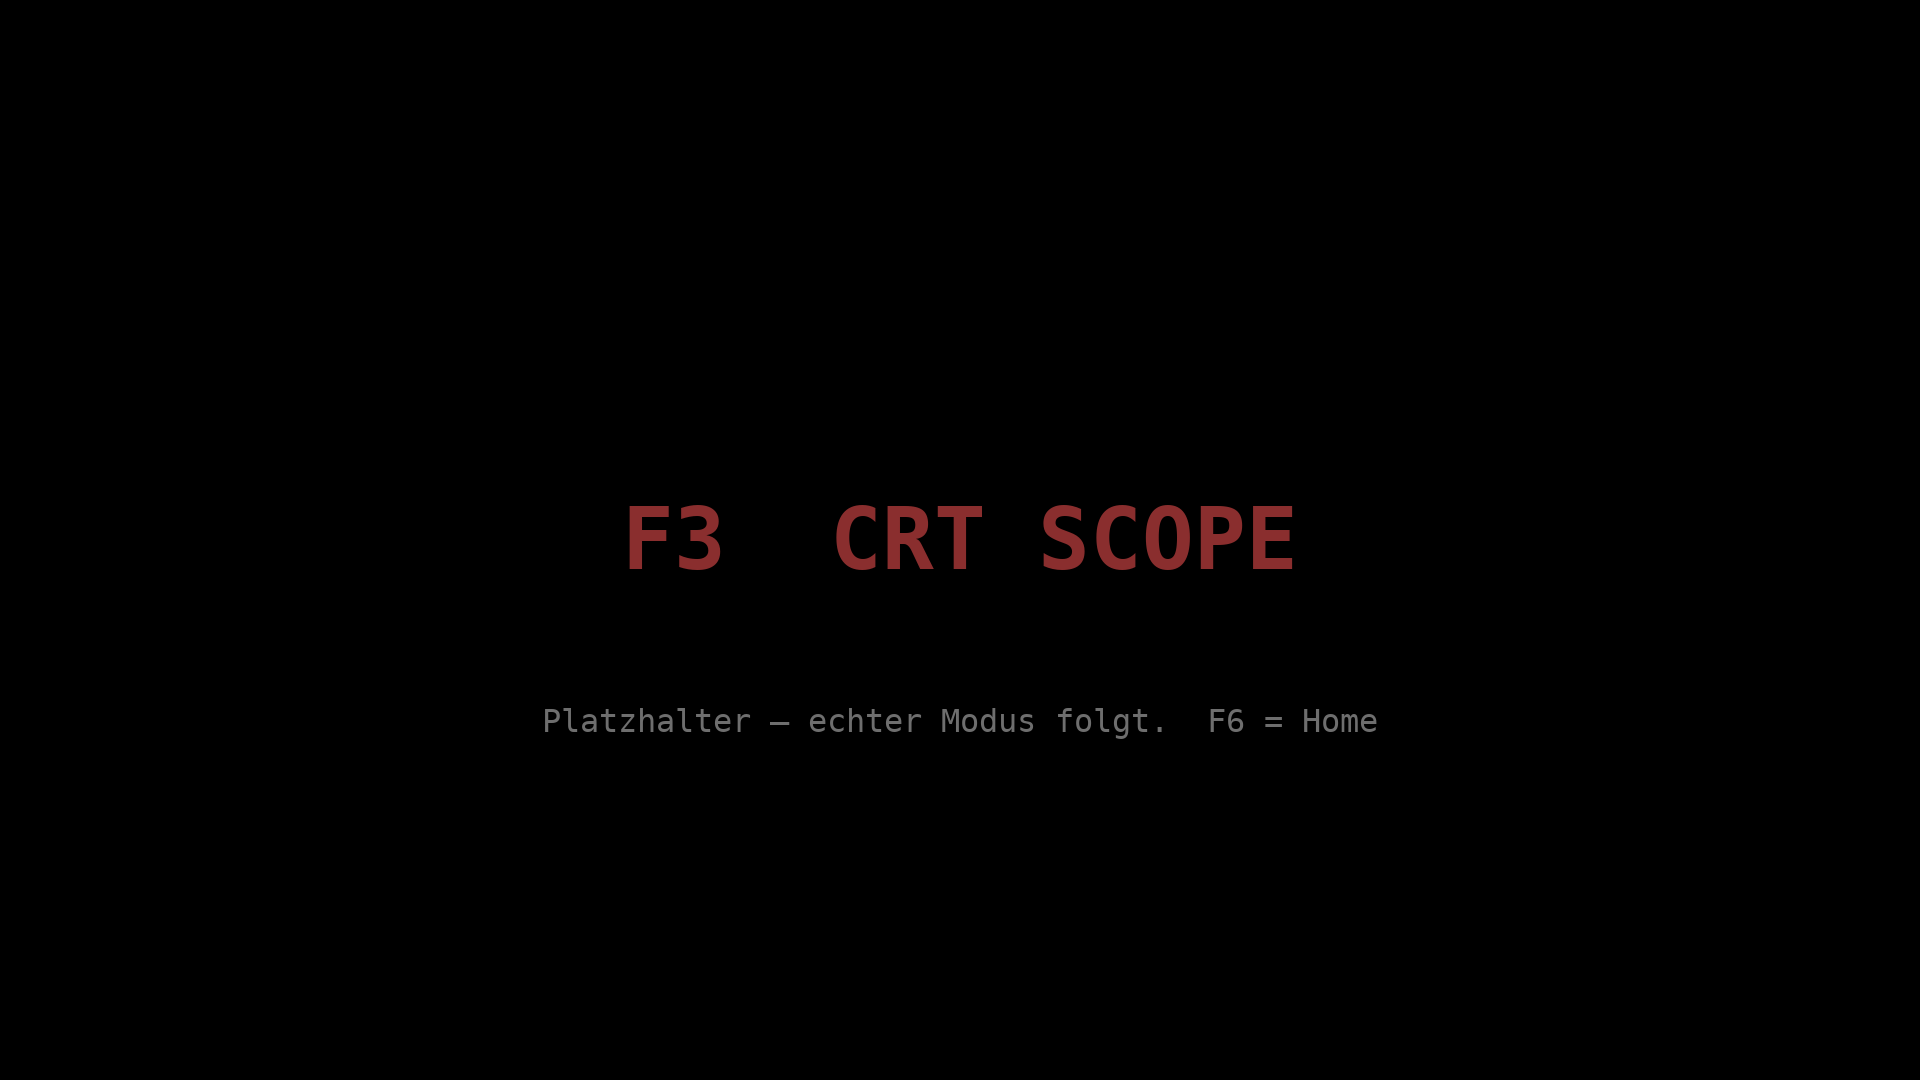
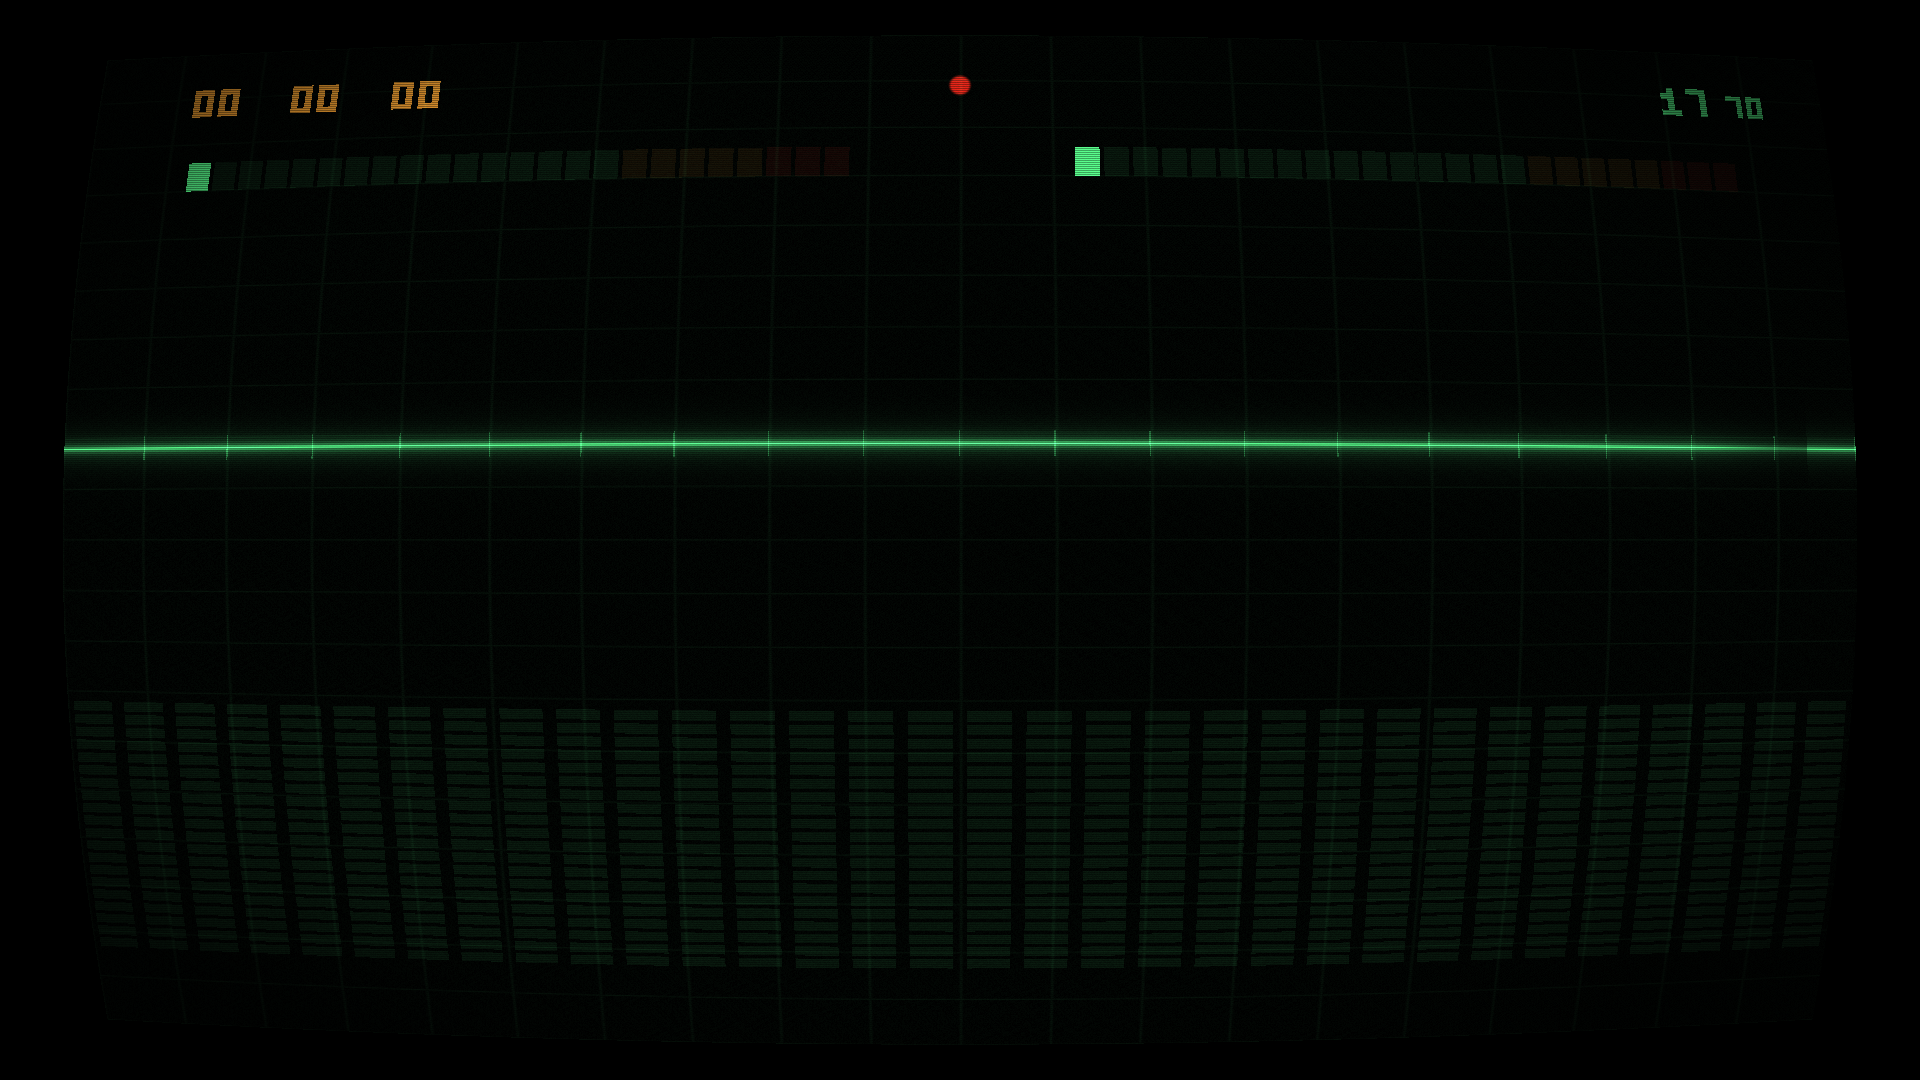
Phase 4: Audio-Check und Visualizer-Tests auf dem Pi (PyOpenGL contextdata-Fix)

diff --git a/visualizers/engine/engine.py b/visualizers/engine/engine.py
@@ -15,8 +15,14 @@ import os
 import time
 from pathlib import Path
 
+import ctypes
 import numpy as np
 
+os.environ.setdefault("PYOPENGL_PLATFORM", "egl")
+import OpenGL
+OpenGL.ERROR_CHECKING = False
+OpenGL.CONTEXT_CHECKER = None
+OpenGL.STORE_POINTERS = False
 os.environ.setdefault("PYGAME_HIDE_SUPPORT_PROMPT", "1")
 import pygame  # noqa: E402
 from OpenGL import GL  # noqa: E402
@@ -52,6 +58,21 @@ def create_window(settings: dict, viz_cfg: dict, title: str):
         log.warning("GL 3.1 Core nicht verfügbar (%s), versuche Standard-Kontext", exc)
         pygame.display.gl_set_attribute(pygame.GL_CONTEXT_PROFILE_MASK, 0)
         screen = pygame.display.set_mode(size, flags)
+    # PyOpenGL context-tracking patch: auf Pi5/Wayland gibt GetCurrentContext() 0 zurück.
+    # contextdata.getContext patchen, damit GL-Calls ohne GLX-Context-Tracking laufen.
+    from OpenGL import contextdata as _cd
+    _orig_gc = _cd.getContext
+    def _safe_gc(context=None):
+        if context is not None:
+            return context
+        try:
+            ctx = _orig_gc(context)
+            if ctx:
+                return ctx
+        except Exception:
+            pass
+        return id(screen)  # Dummy-Context-ID
+    _cd.getContext = _safe_gc
     pygame.display.set_caption(title)
     pygame.mouse.set_visible(False)
     log.info("SDL-Treiber %s, GL %s, GLSL %s, Renderer %s", pygame.display.get_driver(),
@@ -120,7 +141,7 @@ class Renderer:
         tri = np.array([-1, -1, 3, -1, -1, 3], dtype=np.float32)
         GL.glBufferData(GL.GL_ARRAY_BUFFER, tri.nbytes, tri, GL.GL_STATIC_DRAW)
         GL.glEnableVertexAttribArray(0)
-        GL.glVertexAttribPointer(0, 2, GL.GL_FLOAT, GL.GL_FALSE, 0, None)
+        GL.glVertexAttribPointer(0, 2, GL.GL_FLOAT, GL.GL_FALSE, 0, ctypes.c_void_p(0))
         # Audio-Textur 512x2 R8
         self.tex = GL.glGenTextures(1)
         GL.glBindTexture(GL.GL_TEXTURE_2D, self.tex)
